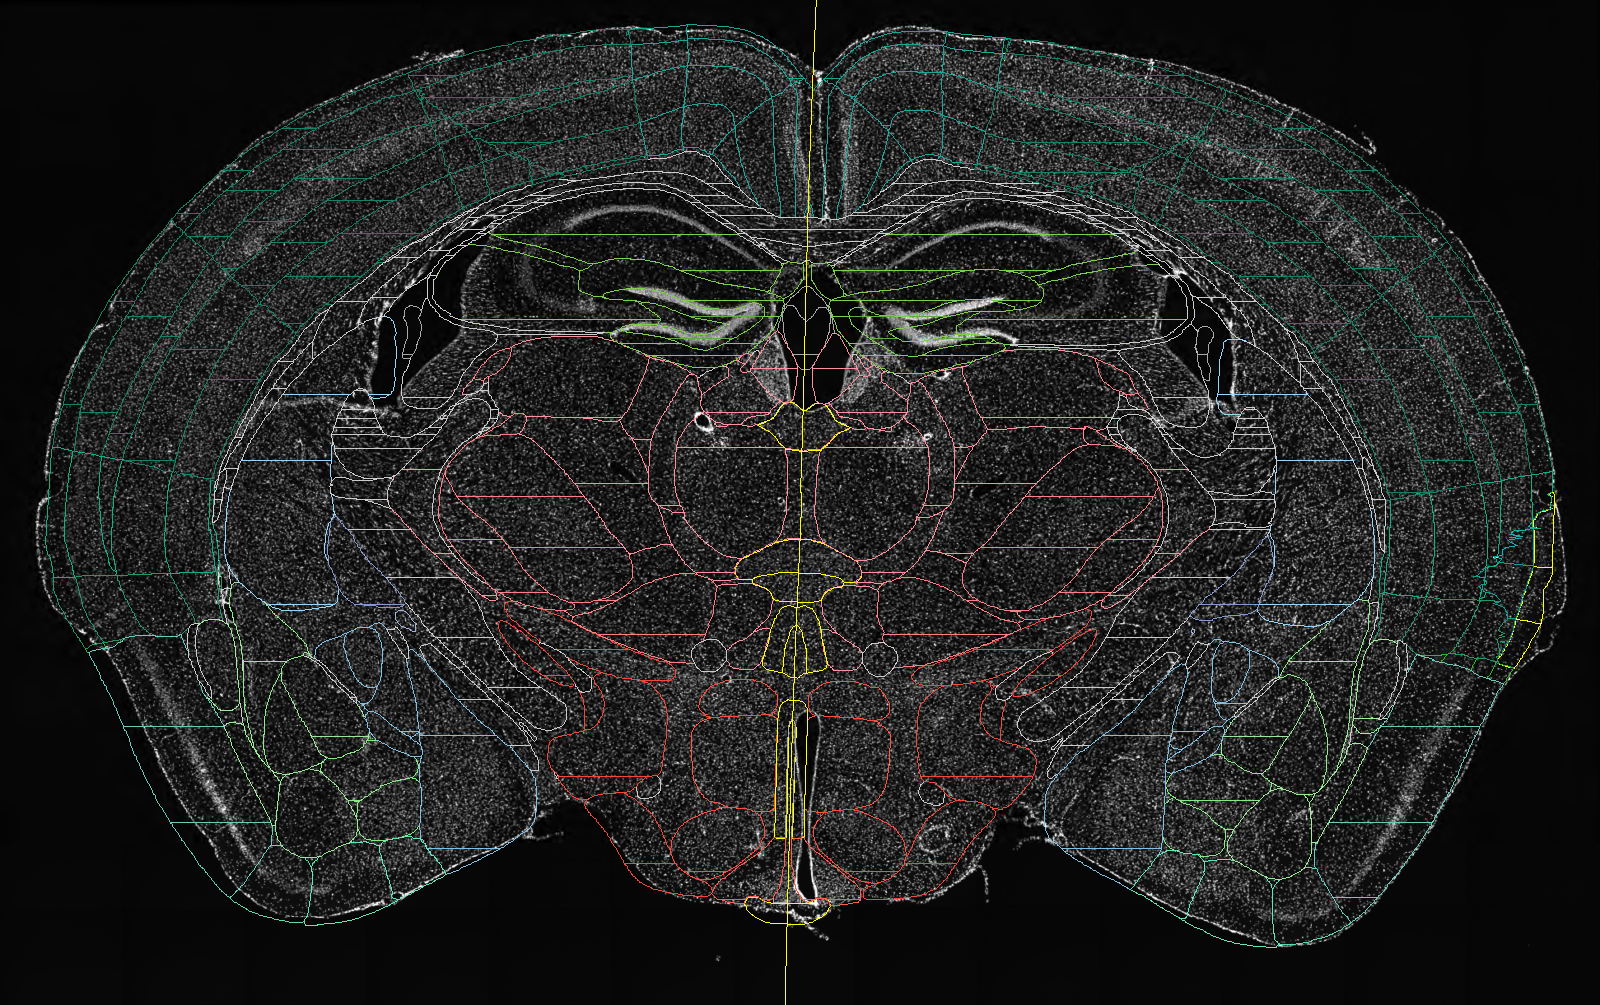
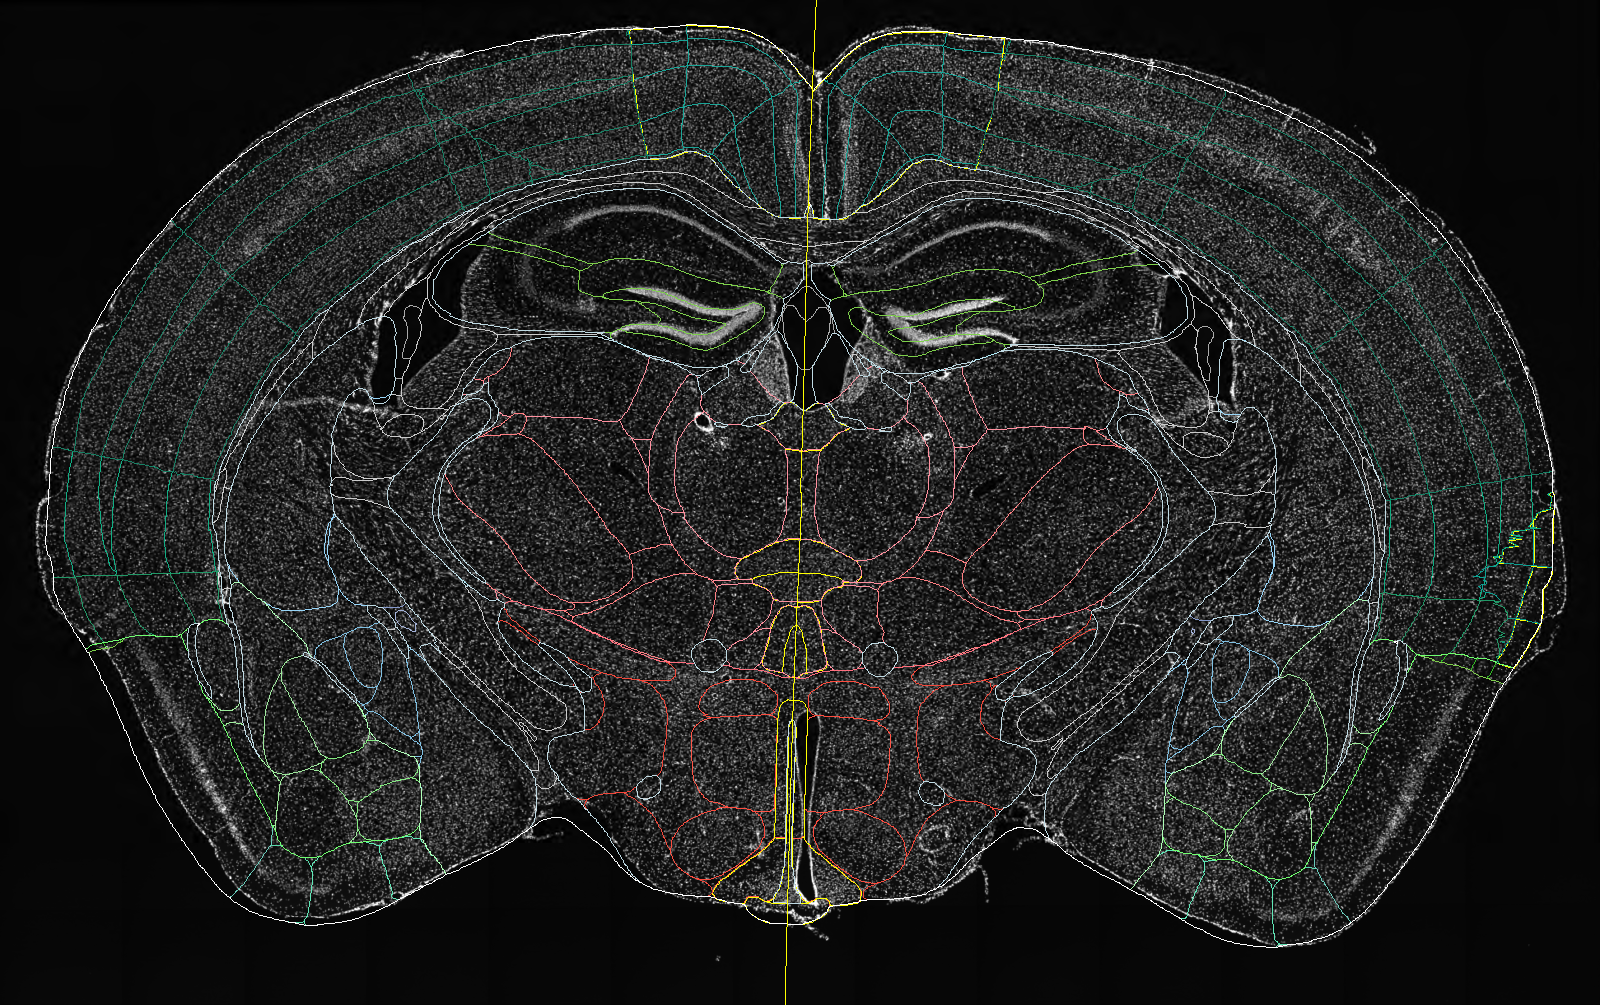
Regions of the ROI Manager drawn whole: the stripes were a JDK bug
The bands came from java.awt.geom.Area in Java 21.0.11 to 21.0.13, not from
ABBA. Regenerated on the Java bundled with Fiji: all the pictures are
byte-identical but the ROI picture (all regions, clean) and the films (the
viewer of the films now has the size of the pictures).

Changed region(s): [[0.4062, 0.3393, 0.4688, 0.3701], [0.5312, 0.3393, 0.5625, 0.3701]]

diff --git a/ASSETS_HANDOFF.md b/ASSETS_HANDOFF.md
@@ -174,7 +174,7 @@ fiji-robot on its branch `painted-pictures` (0.1.4-SNAPSHOT, installed locally; 
 * **Open question for the maintainer**: the size and scale of the whole-window pictures (1600 x 1000, painted at
   1x). Cards and menus are painted at 1x: Swing text painted bigger than its layout gets cut.
 * **Findings in ABBA 0.24.1** (proposals, nothing changed): the regions overlay of `Export Registered Slices To
-  ImageJ` is drawn by ImageJ as horizontal stripes (the picture leaves it out); a manual registration whose editor is
+  ImageJ` is drawn by ImageJ as horizontal stripes (the picture leaves it out; a JDK bug, see below); a manual registration whose editor is
   open shows as waiting (red), not running (yellow); the manual affine editor shows a `100 undefined` scale bar;
   after deleting the current slice, the `Slices Display` card still names it.
 
@@ -198,7 +198,10 @@ branch `painted-motion`, on top of `painted-pictures`):
   five 0.11 GIFs are deleted; no `TODO GIF phase` is left.
 * **Not done**: the tutorial video (fiji-auto-tuto, visible launchers through the menu bar of the ABBA window), and
   MP4 instead of GIF in the pages (`Film.writeMp4` exists; Sphinx would need a video extension).
-* **Finding in ABBA 0.24.1**: the regions exported to the ROI Manager are made of horizontal bands. A parent region
-  (`grey`: 1030 sub-paths) shows as stripes over its whole extent, and the finest regions show seams at regular
-  intervals. This is probably also what makes the stripes of the regions overlay of `Export Registered Slices To ImageJ`.
-  `regions_roi_manager.png` draws only the finest regions, its seams visible.
+* **Not an ABBA bug, a JDK one**: the regions exported to the ROI Manager came out in horizontal bands (parent
+  regions striped, seams in the others), and so did the regions overlay of `Export Registered Slices To ImageJ`.
+  The cause is `java.awt.geom.Area` in OpenJDK 21.0.11 to 21.0.13 (JDK-8386576, fixed in 21.0.14), through which
+  `CompositeFloatPoly.getRoi()` (ijl-utilities-wrappers) builds every region; found by a session in
+  ijp-imagetoatlas. The generators now run on the Java bundled with Fiji (Zulu 21.0.7), and the picture shows all
+  the regions. Proposal for ABBA users on those JDKs: build the region as one even-odd path instead of through
+  `Area`.

diff --git a/BUMP_DOC.md b/BUMP_DOC.md
@@ -94,6 +94,8 @@ git -C $ABBA show ImageToAtlasRegister-<NEW>:pom.xml | sed -n '/<properties>/,/<
 * Without a change in ABBA, a rerun writes byte-identical pictures: `git status` lists exactly the pictures the
   new release changes. Look at each of them, and at the framing of the views.
 * `.abba` states of the key steps are saved in `../abba-doc-assets/target/states/`.
+* The generators run on the Java bundled with Fiji, the one users run (`FIJI_DIR`, or `DOC_JAVA_HOME`). Not on a JDK
+  21.0.11 to 21.0.13: their `java.awt.geom.Area` cuts the atlas regions into horizontal bands (JDK-8386576).
 * The GIFs of the pages (`<page>/*.gif`) are filmed by the `Generate<Page>Films` generators, also run by
   `run-all.sh` (ffmpeg on the `PATH`): synthetic mouse events, frames painted, no screen recording. They are
   byte-identical from run to run, except the timelapse of the registrations (`registration_progress.gif`).

diff --git a/docs/source/guide/export_results.md b/docs/source/guide/export_results.md
@@ -97,7 +97,7 @@ A periodic LUT is applied to each channel, which makes the warping easy to see. 
 
 ![Export Regions To File dialog](/assets/dialogs/export-regions-to-roiset-file.png){.dialog}
 
-![A demo slice (original image, DAPI) with the regions exported to the ROI Manager, drawn in their atlas colors: the finest regions only, as the larger ones contain them](/assets/abba/guide/export_results/regions_roi_manager.png)
+![A demo slice (original image, DAPI) with the regions exported to the ROI Manager, drawn in their atlas colors](/assets/abba/guide/export_results/regions_roi_manager.png)
 
 ## Export to BigDataViewer
 
